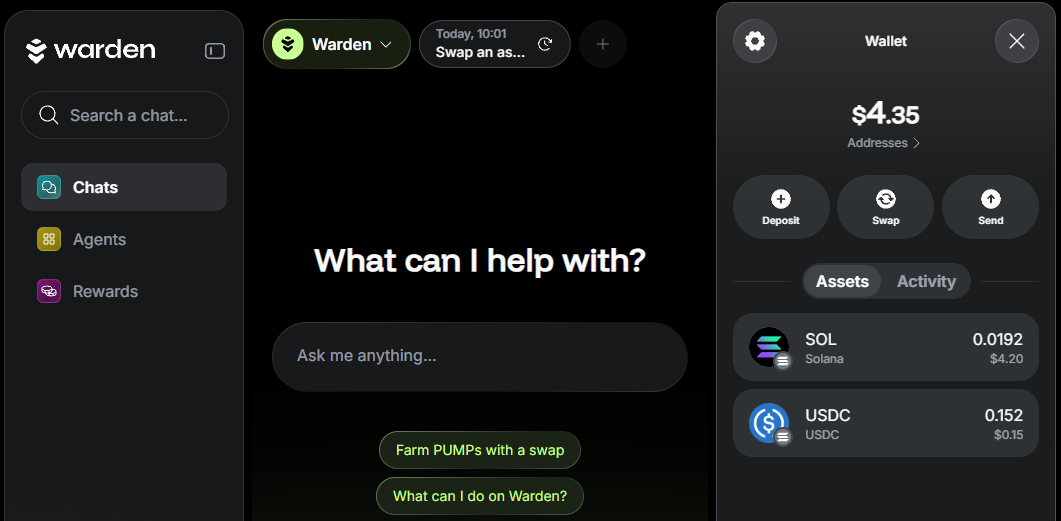
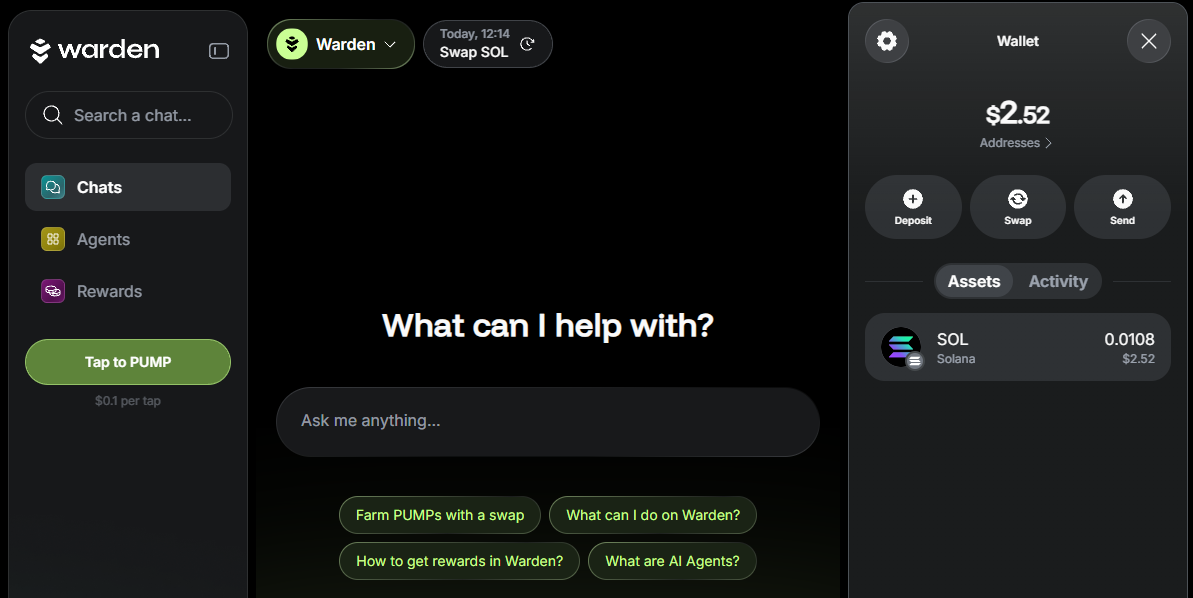
updated screenshots

diff --git a/docs/help-center/docs/warden-app/earn-rewards.md b/docs/help-center/docs/warden-app/earn-rewards.md
@@ -52,7 +52,7 @@ We're continuously expanding the task list with the new ways to earn.
 
 To access all available tasks and see the PUMP points you can earn, simply go to the **Rewards** tab and scroll down:
 
-XXX
+![Create and grow your coin in Warden](../../static/img/warden-app/earn-rewards-2.png)
 
 ### Tap to pump
 
@@ -62,17 +62,16 @@ A fun way to collect more PUMPs is by playing the **Tap to Pump** game:
 - Every tap grants you **10 PUMPs**.
 - Every 10 taps, you ulock a chance to hit a reward boost: **x10**, **x15**, or **x20**.
 
-You can access the game from any tab:
+You can access the game from any tab—simply click **Tap to PUMP** in the left menu:
 
-XXX
+![Create and grow your coin in Warden](../../static/img/warden-app/earn-rewards-3.png)
 
 
 ### Check your rank
 
 To check your coin's rank, navigate to the **Rewards** tab and scroll down to the **PUMP Leaderboard**:
 
-XXX
-
+![Create and grow your coin in Warden](../../static/img/warden-app/earn-rewards-4.png)
 
 ## Earn WARD
 
